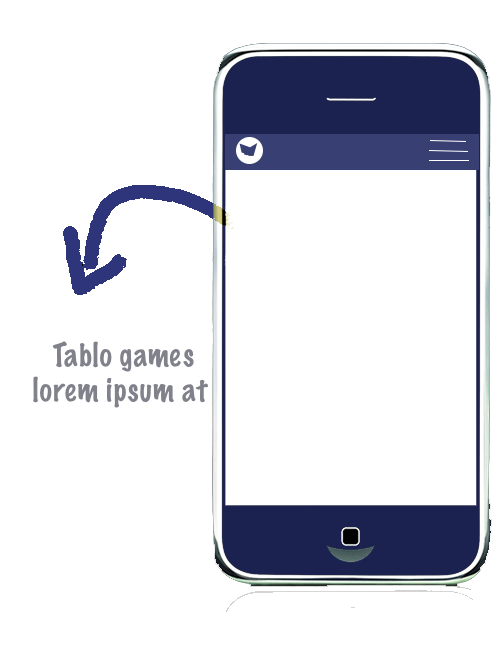
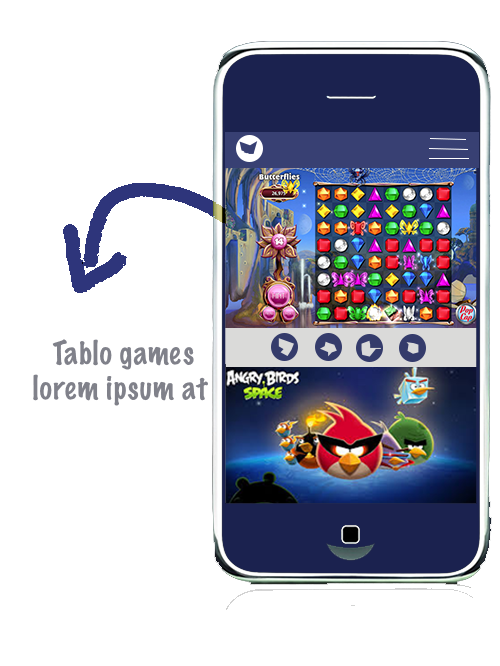
add third page

diff --git a/source/stylesheets/style.css.sass b/source/stylesheets/style.css.sass
@@ -81,7 +81,6 @@ h2
   margin: 0 auto
   h1
     padding: 150px 50px
-    float: left
     width: 100%
     font-size: 45px
     box-sizing: border-box
@@ -105,33 +104,10 @@ header
   bottom: 0px
   right: 150px
   z-index: 1
-.inside_iphone
-  width: 17.3%
-  z-index: 0
-  height: 190px
-  position: absolute
-  bottom: 150px
-  right: 165px
-  margin-left: -15px
-  background-color: whitesmoke
-  h6
-    text-align: center
-    font-size: 8.5px
-    position: relative
-    left: -5px
-    float: left
-  .image_ikon
-    position: relative
-    left: 28px
-.inside_iphone_below
-  @extend .inside_iphone
-  background-color: #d7d7d7
-  position: absolute
-  top: 350px
 
 .ipad_img
   position: absolute
-  top: 130px
+  top: 13%
   left: 0px
 
 
@@ -212,25 +188,36 @@ header
   color: #FFF
 
 .main section.page3
-  background: #1ABC9C
+  background: #232367
   .page_container
     overflow: hidden
-    width: 500px
-    right: -285px
-    float: left
+    width: 101%
+    height: 400px
+    position: absolute
+    top: 50px
+    left: 310px
+    text-align: center
   h1
-    text-align: left
+    text-align: center
     padding: 0
-    margin-bottom: 0
-    font-size: 70px
+    font-size: 50px
     letter-spacing: -1px
-    color: black
+    color: whitesmoke
   h2
-    color: rgba(0, 0, 0, 0.85)
+    color: rgba(193, 196, 191, 0.85)
     text-align: left
-    line-height: 160%
+    line-height: 140%
     font-weight: 100
     font-size: 21px
+    position: relative
+    left: 60px
+    top: 20px
+  .imac_img
+    position: absolute
+    text-align: center
+    bottom: -10px
+    left: 350px
+
 .main section.page4
   background: #a0a296
   color: #663e1e
